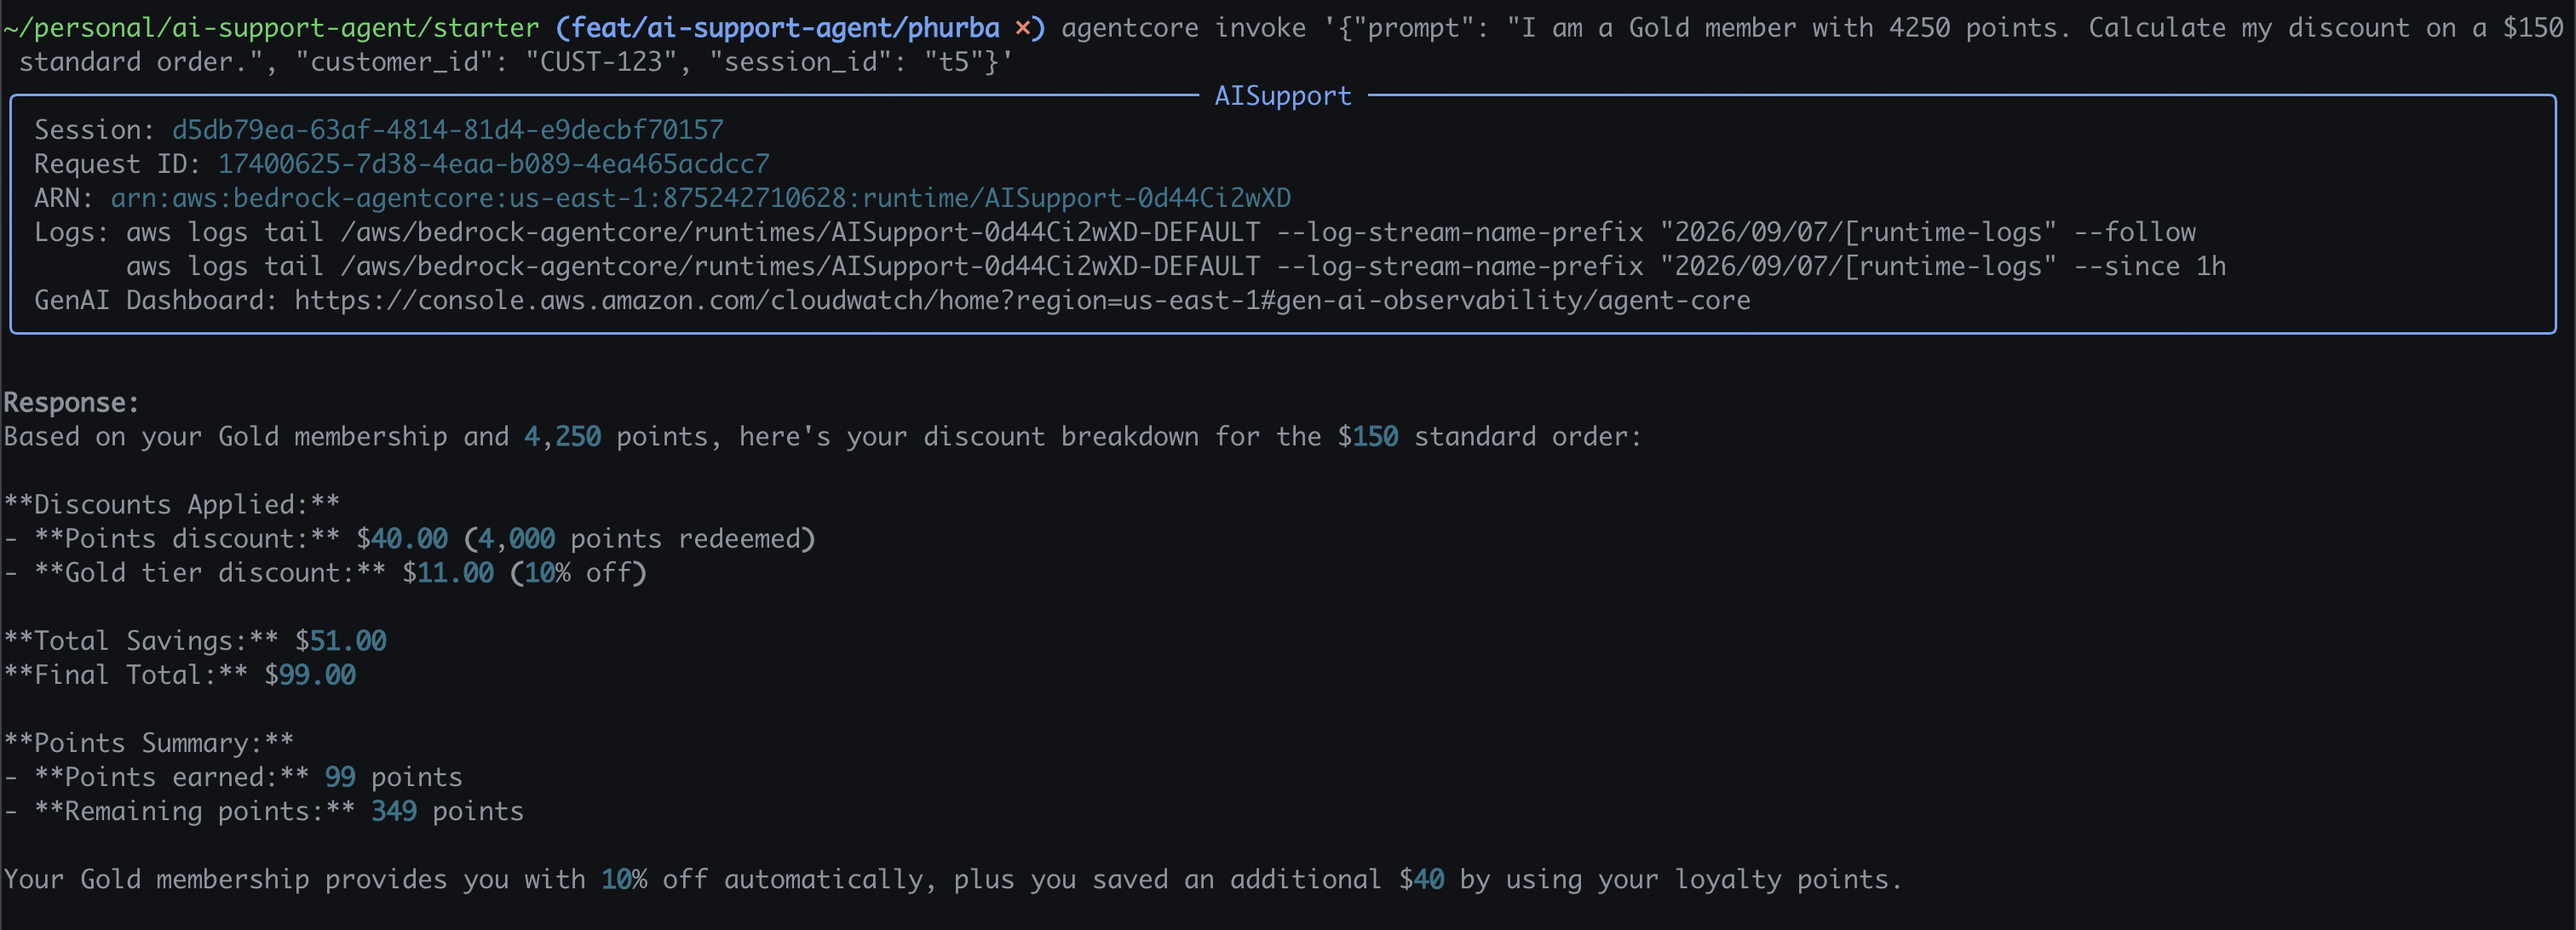
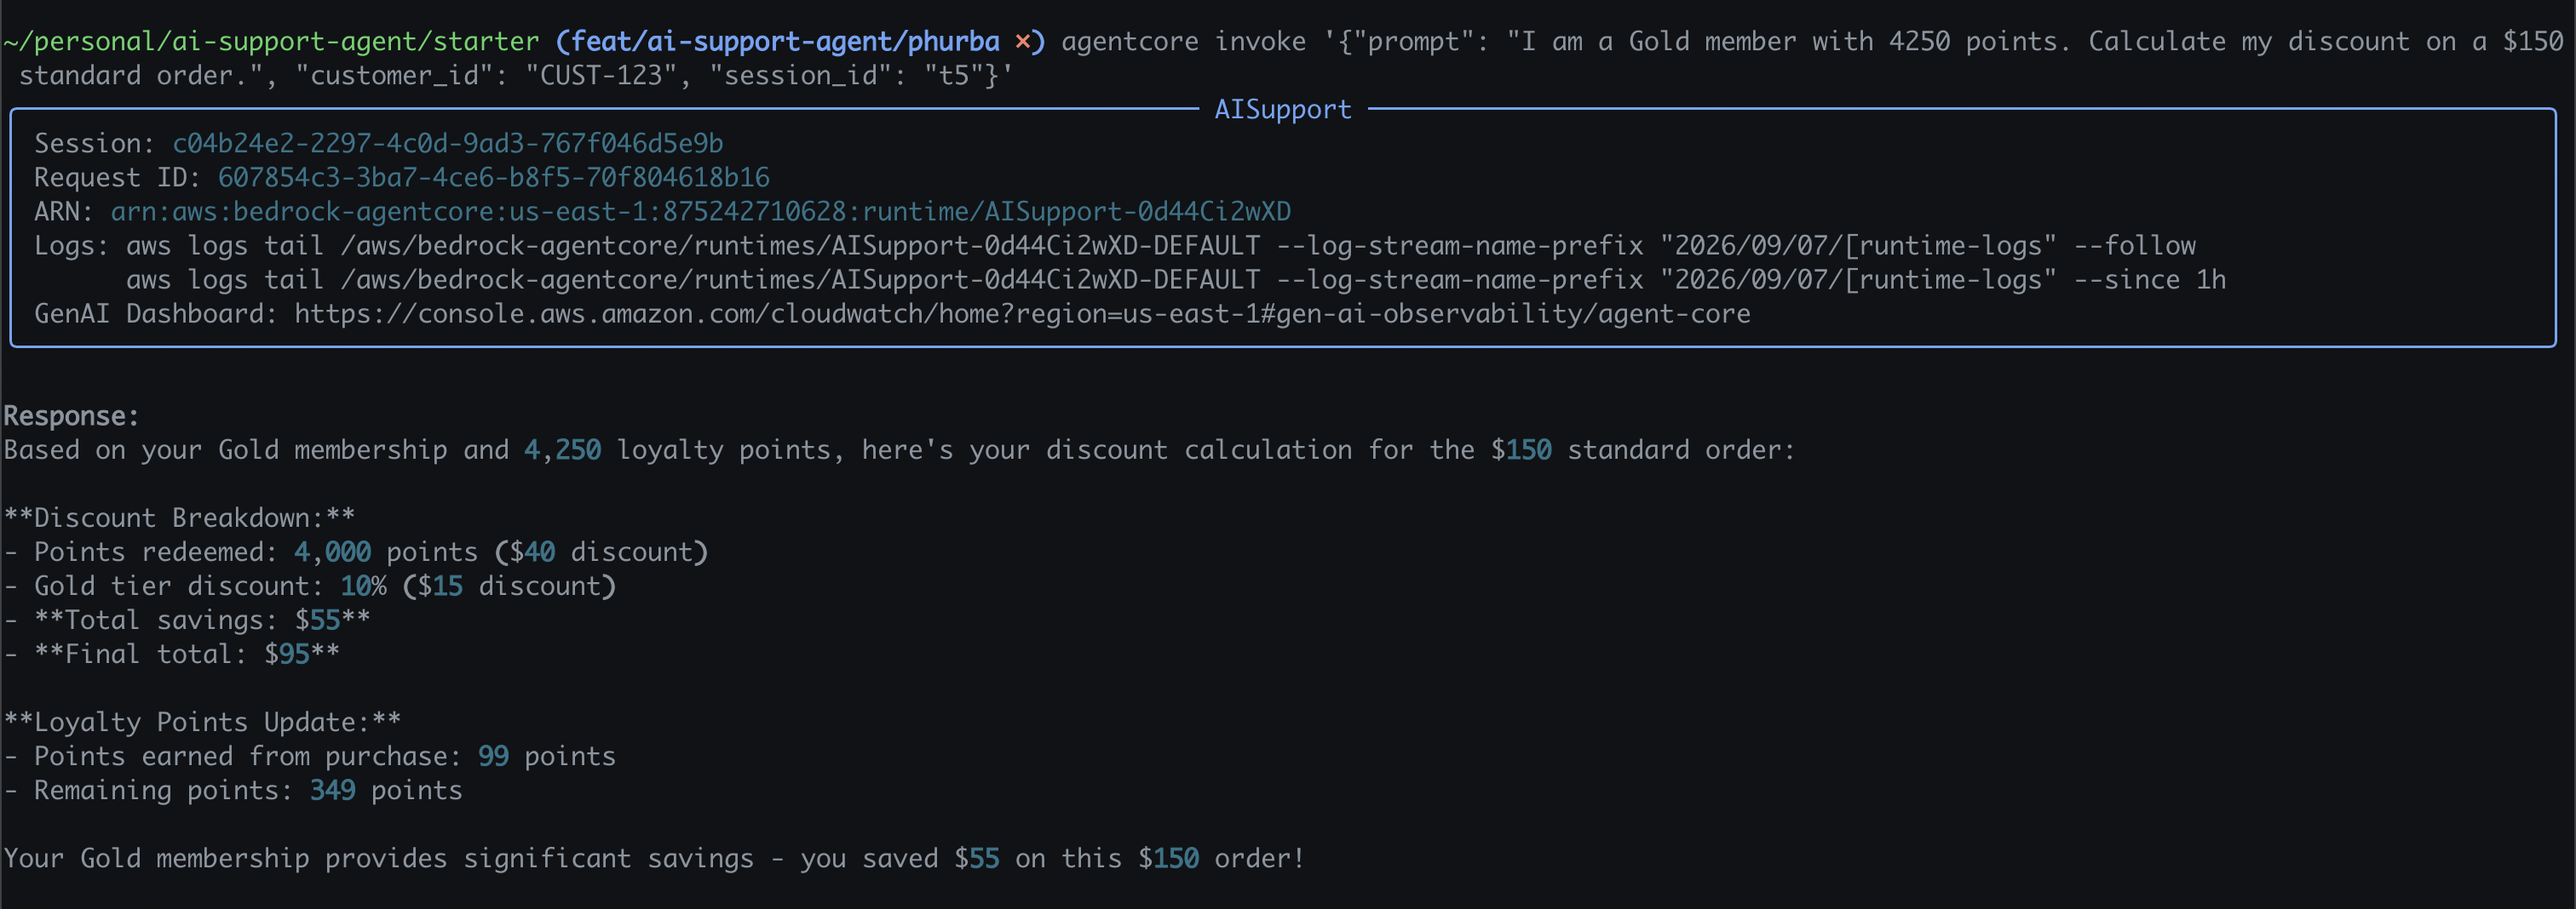
fix: feedback updated

diff --git a/starter/main.py b/starter/main.py
@@ -433,6 +433,8 @@ print(json.dumps(result))
                 "tier_discount_pct": tier_pct,
                 "tier_discount": round(tier_discount, 2),
                 "final_total": round(final_total, 2),
+                "points_redeemed": 0,
+                "remaining_points": loyalty_points,
                 "note": "Fallback calculation — points redemption skipped",
                 "error": str(e),
             }
@@ -551,7 +553,7 @@ async def invoke(payload, context=None):
         session_id=session_id,
     )
 
-    browser = AgentCoreBrowser(session_timeout=600)
+    browser = AgentCoreBrowser(region=REGION, session_timeout=600)
     local_tools = [search_knowledge_base, calculate_loyalty_discount, browser.browser]
 
     client = MCPClient(lambda: streamable_http_client(url=GATEWAY_URL))
